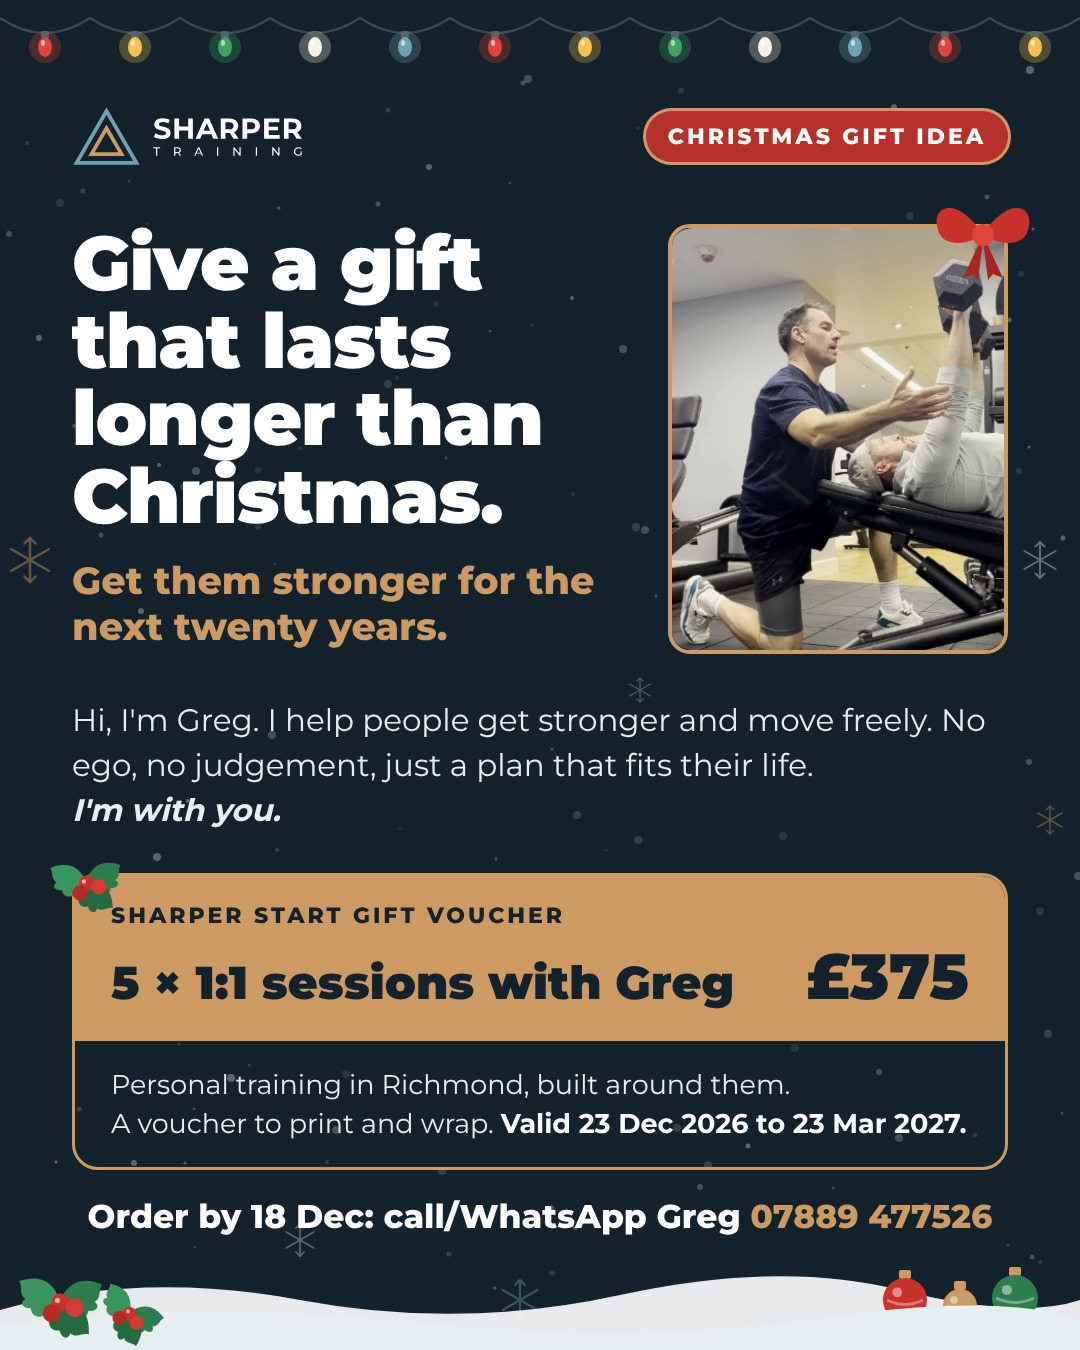
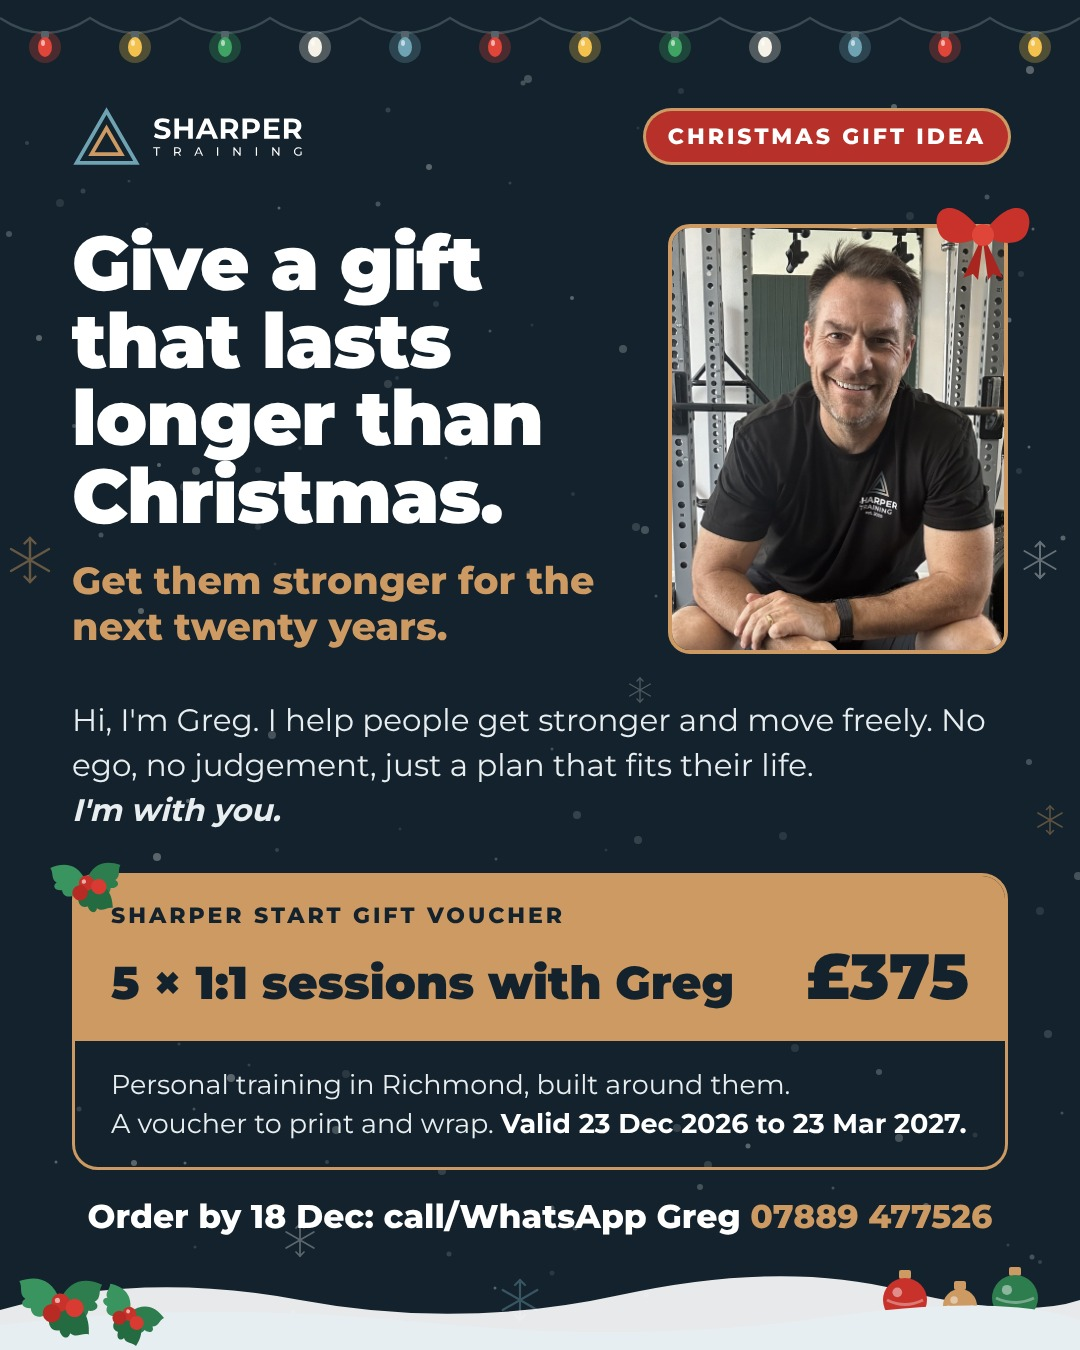
Christmas WhatsApp flyer: new photo of Greg
Claude-Session: https://claude.ai/code/session_015ohGiquHC4EiGeWSw1qs9z

Changed region(s): [[0.6111, 0.1556, 0.9472, 0.4978]]

diff --git a/content/whatsapp/christmas-whatsapp.html b/content/whatsapp/christmas-whatsapp.html
@@ -26,10 +26,10 @@ h2{color:#CD9A63;font-weight:800;font-size:38px;line-height:1.2;margin-top:24px}
 </style></head><body>
 <svg class="bg" viewBox="0 0 1080 1350"><circle cx="926" cy="1206" r="3" fill="#fff" opacity="0.3"/><circle cx="1040" cy="1262" r="2" fill="#fff" opacity="0.15"/><circle cx="1048" cy="1034" r="4" fill="#fff" opacity="0.15"/><circle cx="192" cy="974" r="2.5" fill="#fff" opacity="0.15"/><circle cx="185" cy="1163" r="1.5" fill="#fff" opacity="0.3"/><circle cx="927" cy="1320" r="2" fill="#fff" opacity="0.1"/><circle cx="129" cy="181" r="1.5" fill="#fff" opacity="0.15"/><circle cx="495" cy="1288" r="1.5" fill="#fff" opacity="0.3"/><circle cx="668" cy="962" r="4" fill="#fff" opacity="0.15"/><circle cx="1063" cy="538" r="2.5" fill="#fff" opacity="0.3"/><circle cx="9" cy="234" r="3" fill="#fff" opacity="0.22"/><circle cx="833" cy="1188" r="1.5" fill="#fff" opacity="0.22"/><circle cx="645" cy="530" r="4" fill="#fff" opacity="0.22"/><circle cx="60" cy="203" r="4" fill="#fff" opacity="0.1"/><circle cx="820" cy="280" r="2.5" fill="#fff" opacity="0.3"/><circle cx="136" cy="94" r="1.5" fill="#fff" opacity="0.15"/><circle cx="429" cy="167" r="3" fill="#fff" opacity="0.3"/><circle cx="813" cy="919" r="1.5" fill="#fff" opacity="0.15"/><circle cx="552" cy="749" r="1.5" fill="#fff" opacity="0.22"/><circle cx="681" cy="91" r="3" fill="#fff" opacity="0.1"/><circle cx="275" cy="564" r="1.5" fill="#fff" opacity="0.1"/><circle cx="122" cy="1012" r="3" fill="#fff" opacity="0.15"/><circle cx="385" cy="976" r="4" fill="#fff" opacity="0.15"/><circle cx="268" cy="918" r="3" fill="#fff" opacity="0.1"/><circle cx="808" cy="921" r="2" fill="#fff" opacity="0.1"/><circle cx="552" cy="1273" r="2.5" fill="#fff" opacity="0.1"/><circle cx="431" cy="443" r="3" fill="#fff" opacity="0.1"/><circle cx="86" cy="359" r="2" fill="#fff" opacity="0.3"/><circle cx="528" cy="79" r="4" fill="#fff" opacity="0.22"/><circle cx="606" cy="850" r="1.5" fill="#fff" opacity="0.1"/><circle cx="184" cy="487" r="4" fill="#fff" opacity="0.15"/><circle cx="31" cy="1291" r="2.5" fill="#fff" opacity="0.22"/><circle cx="928" cy="320" r="4" fill="#fff" opacity="0.3"/><circle cx="277" cy="850" r="2" fill="#fff" opacity="0.15"/><circle cx="636" cy="527" r="4" fill="#fff" opacity="0.15"/><circle cx="388" cy="384" r="4" fill="#fff" opacity="0.15"/><circle cx="795" cy="1048" r="4" fill="#fff" opacity="0.1"/><circle cx="863" cy="157" r="1.5" fill="#fff" opacity="0.1"/><circle cx="79" cy="1109" r="2.5" fill="#fff" opacity="0.15"/><circle cx="802" cy="586" r="3" fill="#fff" opacity="0.3"/><circle cx="600" cy="1125" r="2" fill="#fff" opacity="0.1"/><circle cx="258" cy="527" r="3" fill="#fff" opacity="0.1"/><circle cx="573" cy="494" r="2" fill="#fff" opacity="0.1"/><circle cx="141" cy="611" r="3" fill="#fff" opacity="0.3"/><circle cx="510" cy="183" r="1.5" fill="#fff" opacity="0.15"/><circle cx="577" cy="815" r="4" fill="#fff" opacity="0.15"/><circle cx="188" cy="801" r="2" fill="#fff" opacity="0.3"/><circle cx="677" cy="1128" r="4" fill="#fff" opacity="0.15"/><circle cx="71" cy="96" r="3" fill="#fff" opacity="0.22"/><circle cx="638" cy="128" r="1.5" fill="#fff" opacity="0.1"/><circle cx="987" cy="197" r="2.5" fill="#fff" opacity="0.22"/><circle cx="279" cy="208" r="1.5" fill="#fff" opacity="0.3"/><circle cx="753" cy="151" r="2" fill="#fff" opacity="0.22"/><circle cx="720" cy="233" r="3" fill="#fff" opacity="0.1"/><circle cx="854" cy="121" r="3" fill="#fff" opacity="0.1"/><circle cx="783" cy="836" r="4" fill="#fff" opacity="0.1"/><circle cx="147" cy="224" r="1.5" fill="#fff" opacity="0.1"/><circle cx="526" cy="912" r="2.5" fill="#fff" opacity="0.3"/><circle cx="937" cy="962" r="3" fill="#fff" opacity="0.1"/><circle cx="1062" cy="1113" r="1.5" fill="#fff" opacity="0.22"/><circle cx="179" cy="1044" r="1.5" fill="#fff" opacity="0.15"/><circle cx="231" cy="1078" r="4" fill="#fff" opacity="0.3"/><circle cx="523" cy="83" r="2.5" fill="#fff" opacity="0.22"/><circle cx="293" cy="1312" r="2" fill="#fff" opacity="0.15"/><circle cx="701" cy="965" r="3" fill="#fff" opacity="0.15"/><circle cx="669" cy="888" r="2.5" fill="#fff" opacity="0.15"/><circle cx="882" cy="470" r="2" fill="#fff" opacity="0.3"/><circle cx="449" cy="1254" r="2.5" fill="#fff" opacity="0.15"/><circle cx="278" cy="335" r="3" fill="#fff" opacity="0.22"/><circle cx="83" cy="191" r="2.5" fill="#fff" opacity="0.15"/><circle cx="231" cy="982" r="3" fill="#fff" opacity="0.22"/><circle cx="438" cy="907" r="3" fill="#fff" opacity="0.3"/><circle cx="645" cy="1339" r="3" fill="#fff" opacity="0.22"/><circle cx="152" cy="124" r="2.5" fill="#fff" opacity="0.1"/><circle cx="575" cy="1228" r="2.5" fill="#fff" opacity="0.22"/><circle cx="39" cy="338" r="3" fill="#fff" opacity="0.3"/><circle cx="388" cy="110" r="2.5" fill="#fff" opacity="0.15"/><circle cx="288" cy="156" r="1.5" fill="#fff" opacity="0.3"/><circle cx="223" cy="1350" r="4" fill="#fff" opacity="0.22"/><circle cx="159" cy="465" r="2" fill="#fff" opacity="0.3"/><circle cx="524" cy="425" r="1.5" fill="#fff" opacity="0.3"/><circle cx="74" cy="426" r="2" fill="#fff" opacity="0.22"/><circle cx="708" cy="1165" r="4" fill="#fff" opacity="0.15"/><circle cx="805" cy="518" r="1.5" fill="#fff" opacity="0.3"/><circle cx="794" cy="326" r="3" fill="#fff" opacity="0.3"/><circle cx="403" cy="1341" r="1.5" fill="#fff" opacity="0.3"/><circle cx="1029" cy="762" r="3" fill="#fff" opacity="0.22"/><circle cx="419" cy="262" r="1.5" fill="#fff" opacity="0.15"/><circle cx="496" cy="859" r="1.5" fill="#fff" opacity="0.22"/><circle cx="656" cy="596" r="1.5" fill="#fff" opacity="0.22"/><circle cx="1033" cy="229" r="1.5" fill="#fff" opacity="0.3"/><circle cx="700" cy="1187" r="3" fill="#fff" opacity="0.22"/><circle cx="998" cy="118" r="2" fill="#fff" opacity="0.1"/><circle cx="878" cy="131" r="2" fill="#fff" opacity="0.22"/><circle cx="287" cy="1023" r="2" fill="#fff" opacity="0.3"/><circle cx="1008" cy="1245" r="1.5" fill="#fff" opacity="0.15"/><circle cx="899" cy="1138" r="4" fill="#fff" opacity="0.22"/><circle cx="336" cy="1130" r="4" fill="#fff" opacity="0.22"/><circle cx="638" cy="840" r="4" fill="#fff" opacity="0.15"/><circle cx="623" cy="349" r="4" fill="#fff" opacity="0.22"/><circle cx="1019" cy="471" r="3" fill="#fff" opacity="0.1"/><circle cx="1030" cy="70" r="4" fill="#fff" opacity="0.3"/><circle cx="56" cy="1162" r="1.5" fill="#fff" opacity="0.3"/><circle cx="249" cy="1065" r="1.5" fill="#fff" opacity="0.15"/><circle cx="134" cy="1163" r="3" fill="#fff" opacity="0.3"/><circle cx="827" cy="611" r="2" fill="#fff" opacity="0.3"/><circle cx="1009" cy="320" r="2.5" fill="#fff" opacity="0.3"/><circle cx="975" cy="1135" r="2.5" fill="#fff" opacity="0.1"/><circle cx="392" cy="919" r="4" fill="#fff" opacity="0.1"/><circle cx="532" cy="325" r="1.5" fill="#fff" opacity="0.1"/><circle cx="397" cy="378" r="2" fill="#fff" opacity="0.1"/><circle cx="581" cy="719" r="2.5" fill="#fff" opacity="0.15"/><circle cx="1021" cy="274" r="3" fill="#fff" opacity="0.1"/><circle cx="1045" cy="1336" r="2.5" fill="#fff" opacity="0.15"/><circle cx="894" cy="107" r="3" fill="#fff" opacity="0.3"/><circle cx="327" cy="1162" r="2" fill="#fff" opacity="0.15"/><circle cx="442" cy="1171" r="4" fill="#fff" opacity="0.15"/><circle cx="476" cy="1345" r="2.5" fill="#fff" opacity="0.15"/><circle cx="646" cy="1295" r="2.5" fill="#fff" opacity="0.15"/><circle cx="446" cy="458" r="1.5" fill="#fff" opacity="0.15"/><circle cx="490" cy="331" r="1.5" fill="#fff" opacity="0.22"/><circle cx="794" cy="258" r="3" fill="#fff" opacity="0.3"/><circle cx="258" cy="470" r="3" fill="#fff" opacity="0.1"/><circle cx="196" cy="471" r="4" fill="#fff" opacity="0.22"/><circle cx="739" cy="296" r="4" fill="#fff" opacity="0.22"/><circle cx="1029" cy="447" r="1.5" fill="#fff" opacity="0.3"/><circle cx="217" cy="109" r="1.5" fill="#fff" opacity="0.3"/><circle cx="300" cy="448" r="2" fill="#fff" opacity="0.1"/><circle cx="417" cy="413" r="2" fill="#fff" opacity="0.22"/><circle cx="195" cy="1247" r="1.5" fill="#fff" opacity="0.15"/><circle cx="946" cy="218" r="1.5" fill="#fff" opacity="0.22"/><circle cx="800" cy="1016" r="3" fill="#fff" opacity="0.22"/><circle cx="880" cy="490" r="4" fill="#fff" opacity="0.22"/><circle cx="27" cy="143" r="2" fill="#fff" opacity="0.15"/><circle cx="835" cy="989" r="2.5" fill="#fff" opacity="0.22"/><circle cx="830" cy="459" r="4" fill="#fff" opacity="0.15"/><circle cx="194" cy="1109" r="1.5" fill="#fff" opacity="0.22"/><circle cx="173" cy="1348" r="3" fill="#fff" opacity="0.15"/><circle cx="1032" cy="1257" r="2.5" fill="#fff" opacity="0.22"/><circle cx="572" cy="298" r="2" fill="#fff" opacity="0.3"/><circle cx="272" cy="735" r="4" fill="#fff" opacity="0.22"/><circle cx="884" cy="431" r="3" fill="#fff" opacity="0.15"/><circle cx="378" cy="204" r="2.5" fill="#fff" opacity="0.22"/><circle cx="960" cy="266" r="1.5" fill="#fff" opacity="0.22"/><circle cx="101" cy="535" r="2.5" fill="#fff" opacity="0.22"/><circle cx="691" cy="502" r="3" fill="#fff" opacity="0.15"/><circle cx="157" cy="857" r="4" fill="#fff" opacity="0.3"/><circle cx="436" cy="304" r="3" fill="#fff" opacity="0.1"/><circle cx="235" cy="1320" r="1.5" fill="#fff" opacity="0.15"/><circle cx="525" cy="968" r="3" fill="#fff" opacity="0.1"/><circle cx="400" cy="829" r="1.5" fill="#fff" opacity="0.1"/><circle cx="529" cy="573" r="2.5" fill="#fff" opacity="0.22"/><circle cx="1040" cy="911" r="4" fill="#fff" opacity="0.1"/><circle cx="910" cy="216" r="4" fill="#fff" opacity="0.1"/><circle cx="791" cy="387" r="3" fill="#fff" opacity="0.3"/><circle cx="346" cy="1074" r="4" fill="#fff" opacity="0.1"/><circle cx="879" cy="1072" r="3" fill="#fff" opacity="0.22"/><circle cx="1078" cy="876" r="4" fill="#fff" opacity="0.22"/><circle cx="748" cy="1146" r="2.5" fill="#fff" opacity="0.3"/><circle cx="552" cy="1208" r="2.5" fill="#fff" opacity="0.22"/><g transform="translate(1040,560) scale(0.9)" opacity="0.35" stroke="#fff" stroke-width="2.2" stroke-linecap="round" fill="none"><path d="M0-20V20M-17.3-10L17.3 10M-17.3 10L17.3-10"/><path d="M-5-15L0-20L5-15M-5 15L0 20L5 15"/></g><g transform="translate(30,560) scale(1.1)" opacity="0.45" stroke="#CD9A63" stroke-width="2.2" stroke-linecap="round" fill="none"><path d="M0-20V20M-17.3-10L17.3 10M-17.3 10L17.3-10"/><path d="M-5-15L0-20L5-15M-5 15L0 20L5 15"/></g><g transform="translate(520,1300) scale(1)" opacity="0.4" stroke="#6FA3B3" stroke-width="2.2" stroke-linecap="round" fill="none"><path d="M0-20V20M-17.3-10L17.3 10M-17.3 10L17.3-10"/><path d="M-5-15L0-20L5-15M-5 15L0 20L5 15"/></g><g transform="translate(640,690) scale(0.6)" opacity="0.25" stroke="#fff" stroke-width="2.2" stroke-linecap="round" fill="none"><path d="M0-20V20M-17.3-10L17.3 10M-17.3 10L17.3-10"/><path d="M-5-15L0-20L5-15M-5 15L0 20L5 15"/></g><g transform="translate(300,1240) scale(0.8)" opacity="0.3" stroke="#fff" stroke-width="2.2" stroke-linecap="round" fill="none"><path d="M0-20V20M-17.3-10L17.3 10M-17.3 10L17.3-10"/><path d="M-5-15L0-20L5-15M-5 15L0 20L5 15"/></g><g transform="translate(1050,820) scale(0.7)" opacity="0.4" stroke="#CD9A63" stroke-width="2.2" stroke-linecap="round" fill="none"><path d="M0-20V20M-17.3-10L17.3 10M-17.3 10L17.3-10"/><path d="M-5-15L0-20L5-15M-5 15L0 20L5 15"/></g><path d="M0,1310 Q140,1270 300,1300 T620,1295 T900,1290 T1080,1300 V1350 H0Z" fill="#fff" opacity=".9"/><rect x="899" y="1270" width="12" height="9" rx="2" fill="#CD9A63"/><circle cx="905" cy="1300" r="22" fill="#C8322B"/><path d="M887,1300 Q905,1309 923,1300" stroke="#fff" stroke-opacity=".35" stroke-width="3" fill="none"/><circle cx="897.3" cy="1292.3" r="4.84" fill="#fff" opacity=".45"/><rect x="954" y="1281" width="12" height="9" rx="2" fill="#CD9A63"/><circle cx="960" cy="1306" r="17" fill="#CD9A63"/><path d="M947,1306 Q960,1315 973,1306" stroke="#fff" stroke-opacity=".35" stroke-width="3" fill="none"/><circle cx="954.05" cy="1300.05" r="3.74" fill="#fff" opacity=".45"/><rect x="1009" y="1267" width="12" height="9" rx="2" fill="#CD9A63"/><circle cx="1015" cy="1298" r="23" fill="#2E7D4F"/><path d="M996,1298 Q1015,1307 1034,1298" stroke="#fff" stroke-opacity=".35" stroke-width="3" fill="none"/><circle cx="1006.95" cy="1289.95" r="5.06" fill="#fff" opacity=".45"/><path d="M0,1325 Q200,1300 420,1322 T820,1318 T1080,1320 V1350 H0Z" fill="#E6EEF2"/><g transform="translate(60,1300) rotate(-10) scale(1.3)"><path d="M0,0 C10,-14 22,-14 34,-6 C30,-2 32,4 26,6 C30,10 26,14 20,12 C18,18 12,18 8,14 C4,16 0,10 0,0Z" fill="#2E7D4F"/><path d="M0,0 C10,-14 22,-14 34,-6 C30,-2 32,4 26,6 C30,10 26,14 20,12 C18,18 12,18 8,14 C4,16 0,10 0,0Z" fill="#3A9460" transform="scale(-1,1) rotate(-25)"/><path d="M0,0 C10,-14 22,-14 34,-6 C30,-2 32,4 26,6 C30,10 26,14 20,12 C18,18 12,18 8,14 C4,16 0,10 0,0Z" fill="#256B42" transform="rotate(70)"/><circle cx="0" cy="2" r="7" fill="#C8322B"/><circle cx="10" cy="8" r="7" fill="#D93B33"/><circle cx="-8" cy="9" r="7" fill="#B82A24"/><circle cx="-2" cy="0" r="2" fill="#fff" opacity=".6"/></g><g transform="translate(130,1312) rotate(20) scale(1)"><path d="M0,0 C10,-14 22,-14 34,-6 C30,-2 32,4 26,6 C30,10 26,14 20,12 C18,18 12,18 8,14 C4,16 0,10 0,0Z" fill="#2E7D4F"/><path d="M0,0 C10,-14 22,-14 34,-6 C30,-2 32,4 26,6 C30,10 26,14 20,12 C18,18 12,18 8,14 C4,16 0,10 0,0Z" fill="#3A9460" transform="scale(-1,1) rotate(-25)"/><path d="M0,0 C10,-14 22,-14 34,-6 C30,-2 32,4 26,6 C30,10 26,14 20,12 C18,18 12,18 8,14 C4,16 0,10 0,0Z" fill="#256B42" transform="rotate(70)"/><circle cx="0" cy="2" r="7" fill="#C8322B"/><circle cx="10" cy="8" r="7" fill="#D93B33"/><circle cx="-8" cy="9" r="7" fill="#B82A24"/><circle cx="-2" cy="0" r="2" fill="#fff" opacity=".6"/></g><path d="M0,18 Q45,48 90,18 Q135,48 180,18 Q225,48 270,18 Q315,48 360,18 Q405,48 450,18 Q495,48 540,18 Q585,48 630,18 Q675,48 720,18 Q765,48 810,18 Q855,48 900,18 Q945,48 990,18 Q1035,48 1080,18" stroke="#3A4A52" stroke-width="2.5" fill="none"/><circle cx="45" cy="47" r="16" fill="#E0453A" opacity=".28"/><rect x="41" y="31" width="8" height="7" rx="1.5" fill="#55636B"/><ellipse cx="45" cy="47" rx="7" ry="10" fill="#E0453A"/><ellipse cx="43" cy="43" rx="2" ry="3" fill="#fff" opacity=".6"/><circle cx="135" cy="47" r="16" fill="#F2C14E" opacity=".28"/><rect x="131" y="31" width="8" height="7" rx="1.5" fill="#55636B"/><ellipse cx="135" cy="47" rx="7" ry="10" fill="#F2C14E"/><ellipse cx="133" cy="43" rx="2" ry="3" fill="#fff" opacity=".6"/><circle cx="225" cy="47" r="16" fill="#3FA463" opacity=".28"/><rect x="221" y="31" width="8" height="7" rx="1.5" fill="#55636B"/><ellipse cx="225" cy="47" rx="7" ry="10" fill="#3FA463"/><ellipse cx="223" cy="43" rx="2" ry="3" fill="#fff" opacity=".6"/><circle cx="315" cy="47" r="16" fill="#F5F1E6" opacity=".28"/><rect x="311" y="31" width="8" height="7" rx="1.5" fill="#55636B"/><ellipse cx="315" cy="47" rx="7" ry="10" fill="#F5F1E6"/><ellipse cx="313" cy="43" rx="2" ry="3" fill="#fff" opacity=".6"/><circle cx="405" cy="47" r="16" fill="#6FA3B3" opacity=".28"/><rect x="401" y="31" width="8" height="7" rx="1.5" fill="#55636B"/><ellipse cx="405" cy="47" rx="7" ry="10" fill="#6FA3B3"/><ellipse cx="403" cy="43" rx="2" ry="3" fill="#fff" opacity=".6"/><circle cx="495" cy="47" r="16" fill="#E0453A" opacity=".28"/><rect x="491" y="31" width="8" height="7" rx="1.5" fill="#55636B"/><ellipse cx="495" cy="47" rx="7" ry="10" fill="#E0453A"/><ellipse cx="493" cy="43" rx="2" ry="3" fill="#fff" opacity=".6"/><circle cx="585" cy="47" r="16" fill="#F2C14E" opacity=".28"/><rect x="581" y="31" width="8" height="7" rx="1.5" fill="#55636B"/><ellipse cx="585" cy="47" rx="7" ry="10" fill="#F2C14E"/><ellipse cx="583" cy="43" rx="2" ry="3" fill="#fff" opacity=".6"/><circle cx="675" cy="47" r="16" fill="#3FA463" opacity=".28"/><rect x="671" y="31" width="8" height="7" rx="1.5" fill="#55636B"/><ellipse cx="675" cy="47" rx="7" ry="10" fill="#3FA463"/><ellipse cx="673" cy="43" rx="2" ry="3" fill="#fff" opacity=".6"/><circle cx="765" cy="47" r="16" fill="#F5F1E6" opacity=".28"/><rect x="761" y="31" width="8" height="7" rx="1.5" fill="#55636B"/><ellipse cx="765" cy="47" rx="7" ry="10" fill="#F5F1E6"/><ellipse cx="763" cy="43" rx="2" ry="3" fill="#fff" opacity=".6"/><circle cx="855" cy="47" r="16" fill="#6FA3B3" opacity=".28"/><rect x="851" y="31" width="8" height="7" rx="1.5" fill="#55636B"/><ellipse cx="855" cy="47" rx="7" ry="10" fill="#6FA3B3"/><ellipse cx="853" cy="43" rx="2" ry="3" fill="#fff" opacity=".6"/><circle cx="945" cy="47" r="16" fill="#E0453A" opacity=".28"/><rect x="941" y="31" width="8" height="7" rx="1.5" fill="#55636B"/><ellipse cx="945" cy="47" rx="7" ry="10" fill="#E0453A"/><ellipse cx="943" cy="43" rx="2" ry="3" fill="#fff" opacity=".6"/><circle cx="1035" cy="47" r="16" fill="#F2C14E" opacity=".28"/><rect x="1031" y="31" width="8" height="7" rx="1.5" fill="#55636B"/><ellipse cx="1035" cy="47" rx="7" ry="10" fill="#F2C14E"/><ellipse cx="1033" cy="43" rx="2" ry="3" fill="#fff" opacity=".6"/></svg>
 <div class="wrap">
- <div class="top"><img class="logo" src="logo.svg"><div class="tag">CHRISTMAS GIFT IDEA</div></div>
+ <div class="top"><img class="logo" src="../../brand/svg/sharper-training-logo-horizontal-dark.svg"><div class="tag">CHRISTMAS GIFT IDEA</div></div>
  <div class="row">
   <div><h1>Give a gift that lasts longer than Christmas.</h1><h2>Get them stronger for the next twenty years.</h2></div>
-  <div style="position:relative;flex:none"><img class="photo" src="photo.jpg"><svg style="position:absolute;top:-34px;right:-30px" width="110" height="90" viewBox="0 0 110 90"><path d="M55,45 C30,5 2,15 10,40 C15,58 40,55 55,45Z" fill="#C8322B"/><path d="M55,45 C80,5 108,15 100,40 C95,58 70,55 55,45Z" fill="#C8322B"/><path d="M55,45 L35,88 L45,84 L50,90 L55,50Z M55,45 L75,88 L65,84 L60,90 L55,50Z" fill="#A82520"/><circle cx="55" cy="45" r="11" fill="#E0453A"/></svg></div>
+  <div style="position:relative;flex:none"><img class="photo" src="christmas-photo.jpg"><svg style="position:absolute;top:-34px;right:-30px" width="110" height="90" viewBox="0 0 110 90"><path d="M55,45 C30,5 2,15 10,40 C15,58 40,55 55,45Z" fill="#C8322B"/><path d="M55,45 C80,5 108,15 100,40 C95,58 70,55 55,45Z" fill="#C8322B"/><path d="M55,45 L35,88 L45,84 L50,90 L55,50Z M55,45 L75,88 L65,84 L60,90 L55,50Z" fill="#A82520"/><circle cx="55" cy="45" r="11" fill="#E0453A"/></svg></div>
  </div>
  <p class="intro">Hi, I'm Greg. I help people get stronger and move freely. No ego, no judgement, just a plan that fits their&nbsp;life. <b>I'm&nbsp;with&nbsp;you.</b></p>
  <div class="box" style="position:relative"><svg style="position:absolute;top:-30px;left:-34px;z-index:2" width="90" height="70" viewBox="-45 -35 90 70"><g transform="translate(0,0) rotate(-15) scale(1.1)"><path d="M0,0 C10,-14 22,-14 34,-6 C30,-2 32,4 26,6 C30,10 26,14 20,12 C18,18 12,18 8,14 C4,16 0,10 0,0Z" fill="#2E7D4F"/><path d="M0,0 C10,-14 22,-14 34,-6 C30,-2 32,4 26,6 C30,10 26,14 20,12 C18,18 12,18 8,14 C4,16 0,10 0,0Z" fill="#3A9460" transform="scale(-1,1) rotate(-25)"/><path d="M0,0 C10,-14 22,-14 34,-6 C30,-2 32,4 26,6 C30,10 26,14 20,12 C18,18 12,18 8,14 C4,16 0,10 0,0Z" fill="#256B42" transform="rotate(70)"/><circle cx="0" cy="2" r="7" fill="#C8322B"/><circle cx="10" cy="8" r="7" fill="#D93B33"/><circle cx="-8" cy="9" r="7" fill="#B82A24"/><circle cx="-2" cy="0" r="2" fill="#fff" opacity=".6"/></g></svg>
